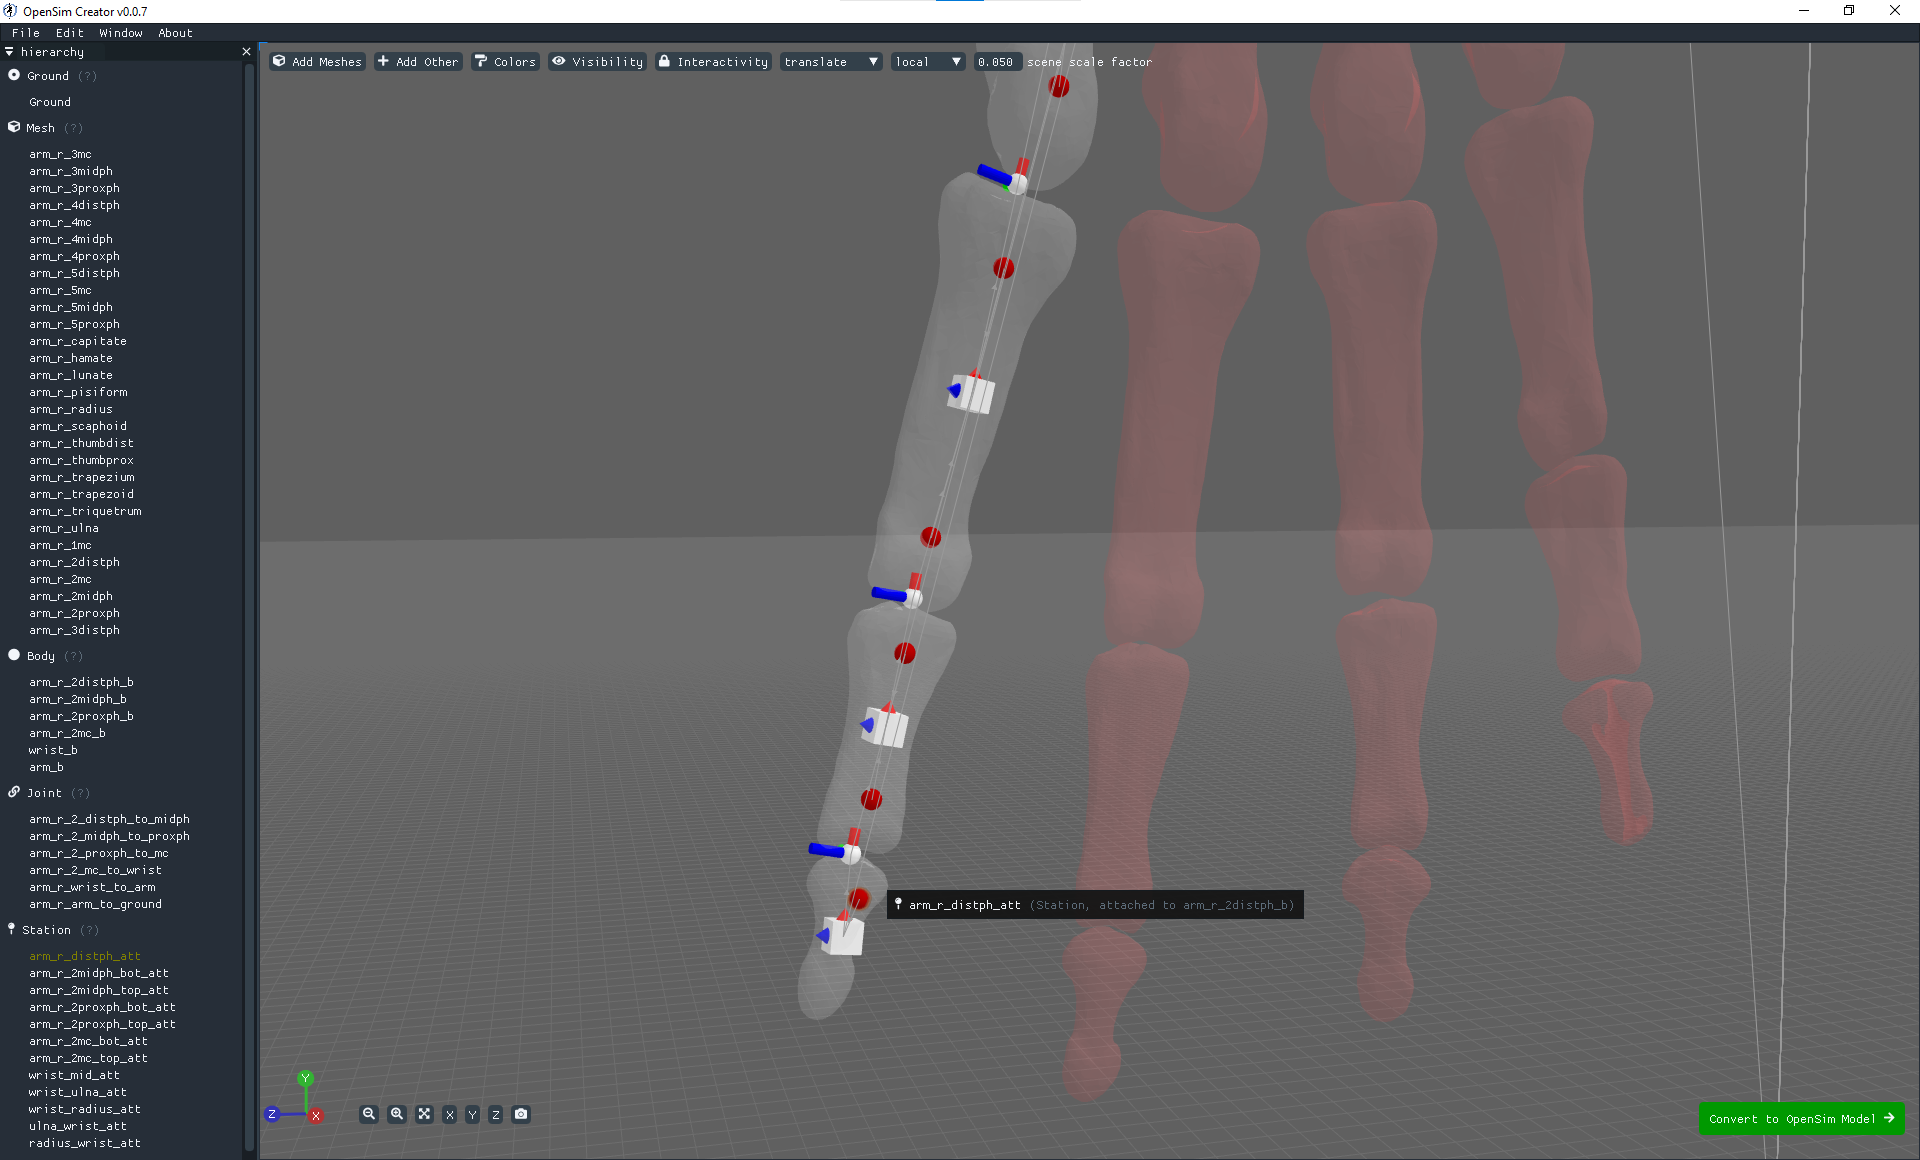
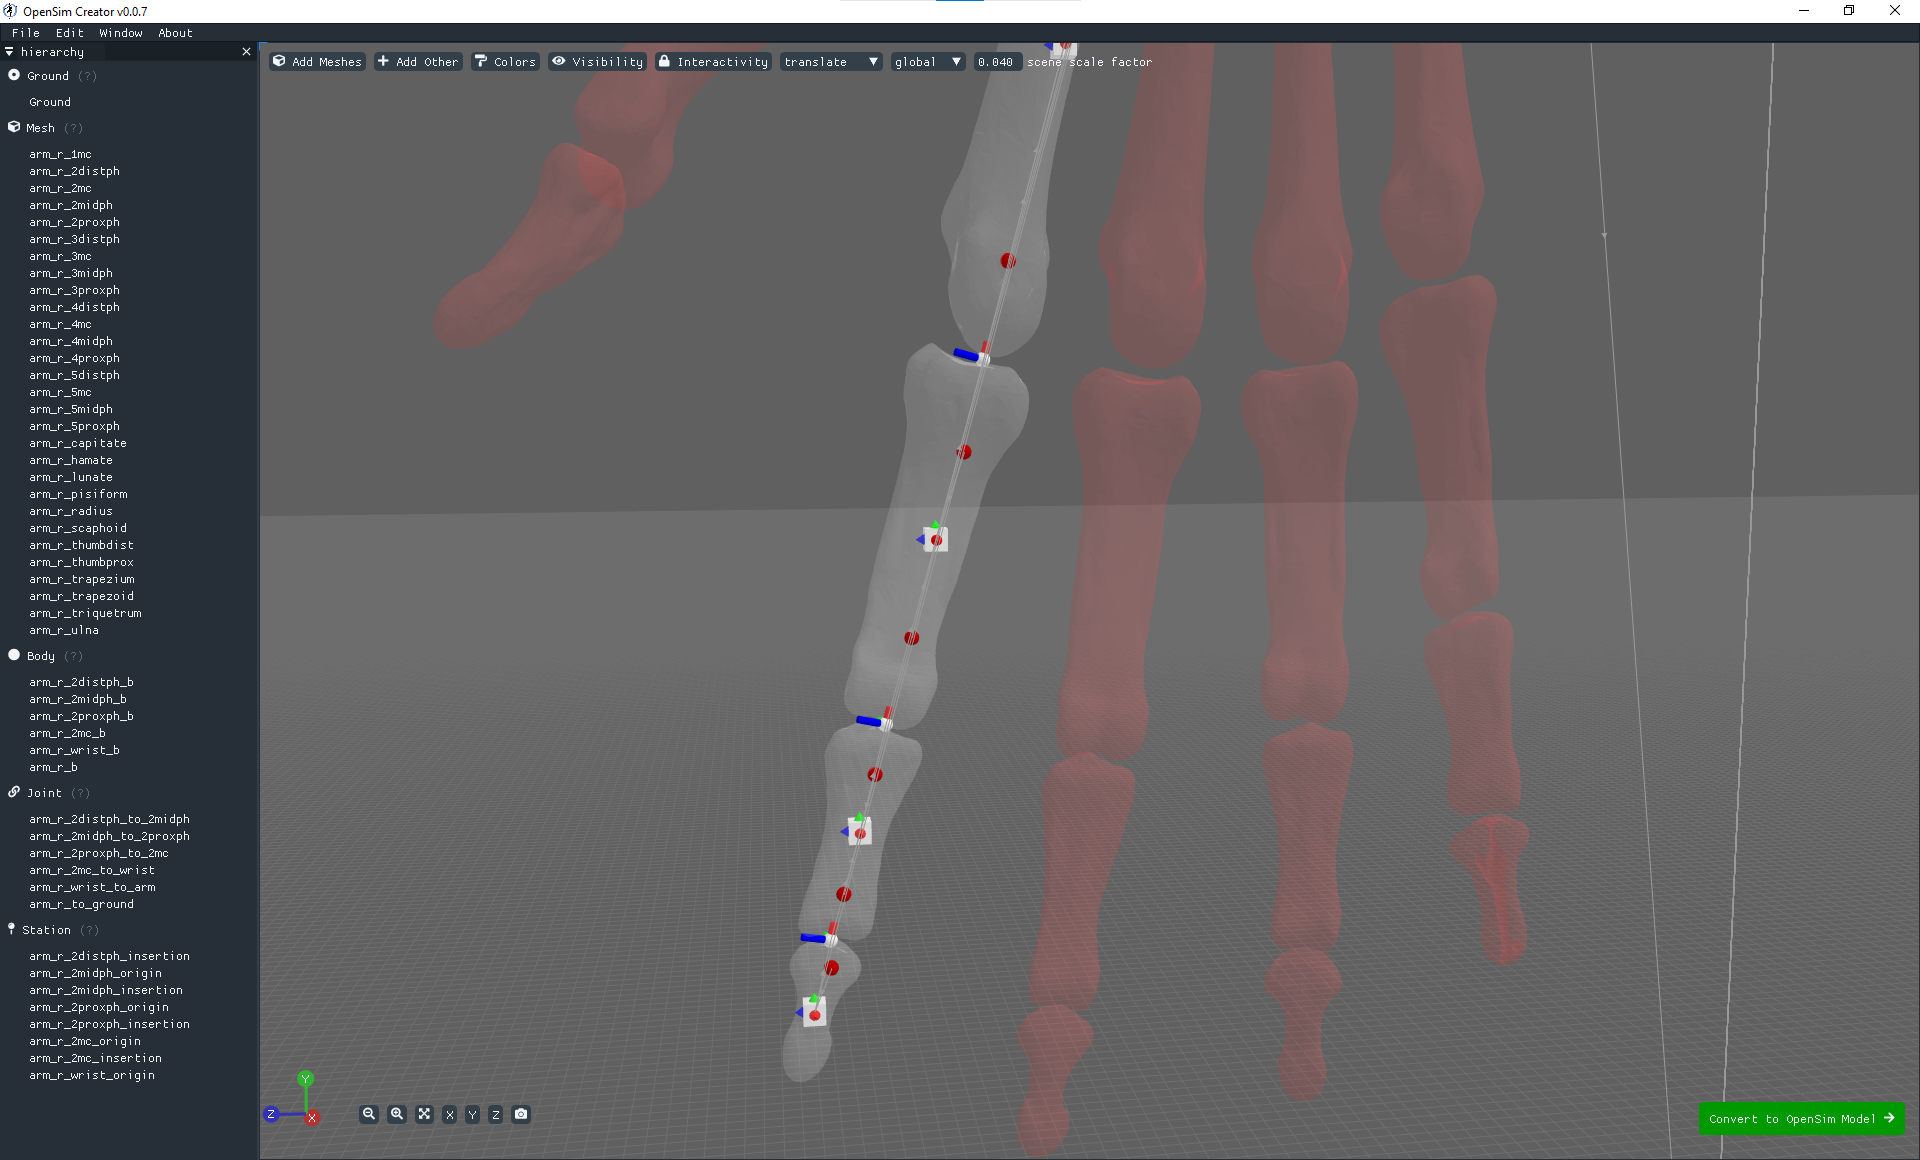
Fleshed out step4 of tut4

diff --git a/docs/source/tut4.rst b/docs/source/tut4.rst
@@ -174,18 +174,39 @@ Step 4: Mark Points of Interest on the Meshes
 
 Now that we've added bodies, meshes, and joints, the next step is to think about where we will ultimately be placing muscles.
 
-Although the mesh importer doesn't directly support defining muscles, it does support placing **stations** in the scene. A **station** is some location in the scene that is attached to something else (typically, a body in the scene). When the scene is converted into an ``osim``, the station will be attached to the appropriate exported object and expressed in OpenSim's **relative** coordinate system.
+Although the mesh importer doesn't directly support defining muscles, it does support placing **stations** in the scene. A **station** is some location in the scene that is attached to something else (typically, a body). When the scene is converted into an ``osim``, the station will be attached to the appropriate exported object and expressed in OpenSim's **relative** coordinate system.
 
 The utility of adding stations is that they're relatively easy to (re)attach, and move around while working in the mesh importer. Once exported, the exported (``OpenSim``) stations can later be used to easily define a **muscle path**. Usually, defining a muscle path is challening because it requires figuring out the relative coordinates of each muscle-path-point within each frame. However, stations already cover the point-within-a-frame part of that definition, leaving you to focus on connecting them to create paths.
 
 To add stations into the model:
 
-* Instruct to right-click meshes in the 3D viewer or hierarchy viewer. Use ``Add > Station`` add a station at the click locaiton. Make it clear that they can also be freely moved around in 3D space afterwards.
-* Instruct to assign stations along the same finger-to-elbow path as before
-* Screenshot of assignment up to the elbow
-* This tutorial skips assigning the rest (have it as an extra exercise)
-* Include naming conventions for the muscles
-* Screenshot of the assigned model
+* Right-click a mesh, navigate to ``Add > Station`` and click ``At Click Position``. This will add a station wherever you right-clicked on the mesh. The station will be attached to whatever the mesh was attached to (e.g. right-clicking ``arm_r_2distph`` and adding the station will attach it to ``arm_r_2distph_b``).
+* If the station isn't attached to the correct body, fix it by right-clicking the station and ``Reassign Connection``.
+* The station can be freely moved around in the scene. It only has a position (no rotation).
+
+Use the above points to assign muscle origin ``${name}_orig`` and insertion ``${name}_ins`` points into the scene:
+
+* Add an insertion point at the end of the finger (``arm_r_2distph``), call it ``arm_r_2distph_ins``
+* Add the corresponding origin point to the next bone up (``arm_r_2midph``), call it ``arm_r_2midph_orig``
+* Repeat the process for each bone in the finger (``arm_r_2midph``, ``arm_r_2proxph``, ``arm_r_2mc``), finishing with an origin point on the wrist (``arm_r_trapezoid``)
+
+This should result in **eight** stations with the following names (see figure below):
+
+* ``arm_r_2distph_insertion``
+* ``arm_r_2midph_origin``
+* ``arm_r_2midph_insertion``
+* ``arm_r_2proxph_origin``
+* ``arm_r_2proxph_insertion``
+* ``arm_r_2mc_origin``
+* ``arm_r_2mc_insertion``
+* ``arm_r_wrist_origin``
+
+The stations should be placed in similar position to the figure below. These stations will be what we used when definining **muscle paths** later.
+
+.. figure:: _static/tut4_after-marking-stations.png
+   :width: 60%
+
+   The scene after defining eight stations along the index finger. These stations are "points of interest" that can be used later to define muscles. The utility of adding them now is that the mesh importer makes it easy to place, reattach, and move them around in the scene.
 
 
 Step 5: Convert to an OpenSim Model
